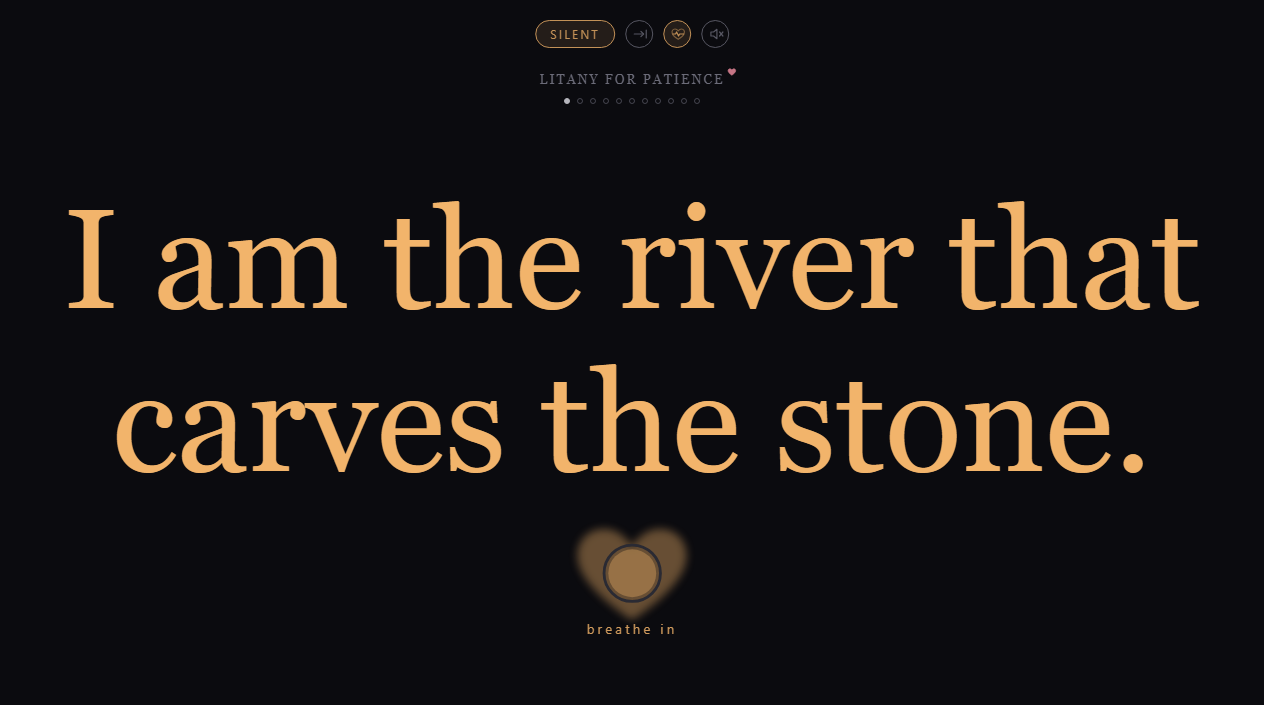
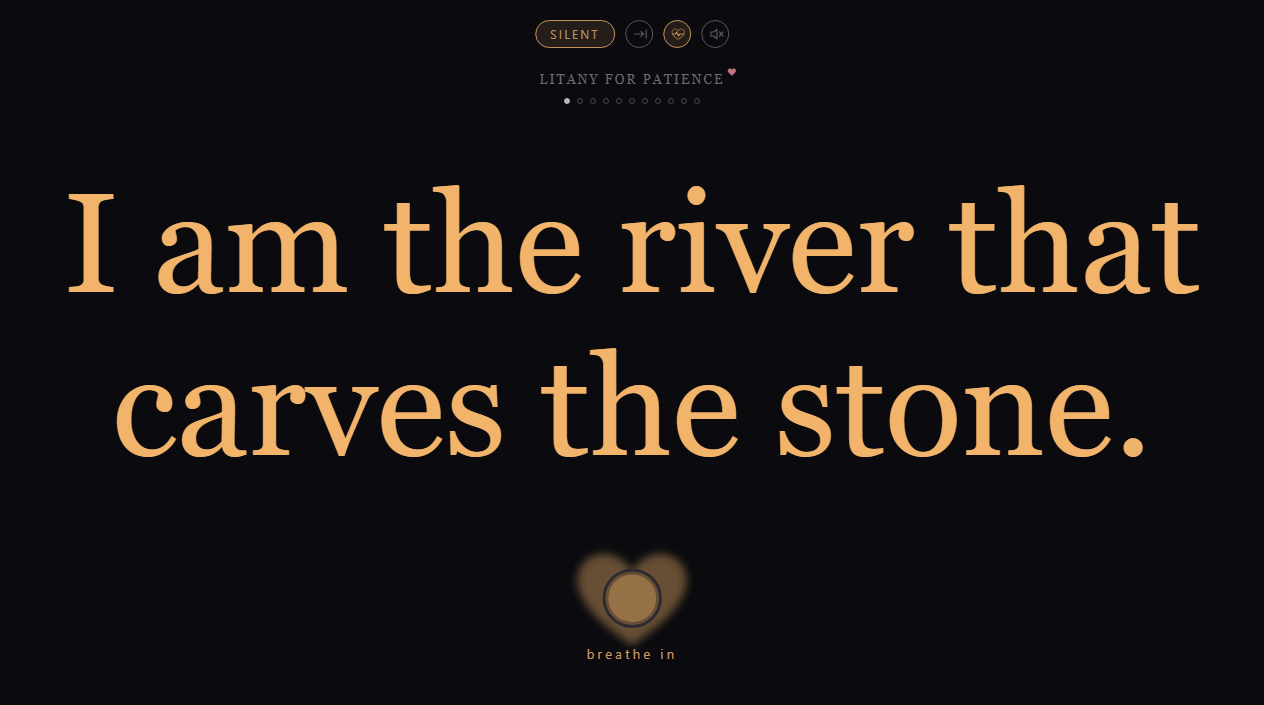
feat: breath ring, heartbeat and cue stay fixed near the bottom of the screen
They moved up and down as the line grew, shrank or wrapped. They now sit in
one place in both views; the line is centred in the space above them.
README screenshots retaken.

diff --git a/public/style.css b/public/style.css
@@ -414,9 +414,25 @@ button {
 #reader.full-view #progress {
   display: none;
 }
-/* Keep the line clear of the top buttons and title (and the dots, in one-line view). */
+/* Keep the line clear of the top buttons and title (and the dots, in one-line view),
+   and of the breath ring and cue fixed near the bottom. */
 #stage {
+  --breath-bottom: calc(6vh + var(--safe-bottom)); /* gap under the cue */
+  --breath-height: calc(10vmin + 1.6vh + 1.4em); /* ring, gap, cue */
   padding-top: calc(80px + var(--safe-top));
+  padding-bottom: calc(var(--breath-bottom) + var(--breath-height) + 3vh);
+}
+/* The breath ring, heartbeat and cue: fixed near the bottom, so they don't move
+   when the line grows, shrinks or wraps. The return link takes their place at the end. */
+#breath-area,
+#end {
+  position: absolute;
+  left: 0;
+  right: 0;
+  bottom: var(--breath-bottom);
+  display: flex;
+  flex-direction: column;
+  align-items: center;
 }
 #reader:not(.full-view) #stage {
   padding-top: calc(110px + var(--safe-top));
@@ -519,7 +535,6 @@ button {
   display: block; /* no gap under it, so the heart lines up with it */
   width: 10vmin;
   height: 10vmin;
-  margin-top: 5vh;
   opacity: 0;
   transition: opacity 0.5s;
   transform: rotate(-90deg);
@@ -568,12 +583,9 @@ button {
   opacity: 0.85;
 }
 
-/* Sits where the breath ring and cue were, about the same height, so the text doesn't jump. */
+/* Sits where the breath ring and cue were, the same height. */
 #end {
-  margin-top: 5vh;
-  min-height: calc(10vmin + 1.6vh + 1.4em);
-  display: flex;
-  align-items: center;
+  min-height: var(--breath-height);
   justify-content: center;
   animation: fade-in 0.8s ease-out;
 }
@@ -795,17 +807,12 @@ button {
   #progress {
     top: calc(84px + var(--safe-top));
   }
-  /* At the end, the return link goes above the line, where the toolbar can't cover
-     it. The ring and cue keep their space, unseen, so the line doesn't jump. */
+  /* At the end, the return link goes above the line, where the toolbar can't cover it. */
   #reader.finished #end {
+    position: static;
     order: -1;
     margin: 0 0 3vh;
     min-height: 0;
-  }
-  #reader.finished #hold.hidden,
-  #reader.finished #cue.hidden {
-    display: block !important;
-    visibility: hidden;
   }
   #index {
     padding-top: calc(5vh + var(--safe-top));

diff --git a/public/index.html b/public/index.html
@@ -81,18 +81,21 @@
     <div id="progress" role="img"></div>
     <div id="stage">
       <div id="line"></div>
-      <div id="breath-mark">
-        <!-- Heartbeat (B): a soft heart behind the breath ring that fades in and out, slowing as the litany goes on. -->
-        <svg id="pulse" class="hidden" viewBox="0 0 24 24" aria-hidden="true">
-          <path d="M12 20s-7.5-4.6-9-9.2C1.9 7.4 4 4.5 7.2 4.5c2 0 3.5 1.1 4.8 2.9 1.3-1.8 2.8-2.9 4.8-2.9 3.2 0 5.3 2.9 4.2 6.3-1.5 4.6-9 9.2-9 9.2z"/>
-        </svg>
-        <svg id="hold" viewBox="0 0 100 100" aria-hidden="true">
-          <circle class="track" cx="50" cy="50" r="40"></circle>
-          <circle class="orb" cx="50" cy="50" r="12"></circle>
-          <circle class="arc" cx="50" cy="50" r="40" pathLength="1"></circle>
-        </svg>
+      <!-- The breath ring, heartbeat and cue stay fixed near the bottom, whatever the text does. -->
+      <div id="breath-area">
+        <div id="breath-mark">
+          <!-- Heartbeat (B): a soft heart behind the breath ring that fades in and out, slowing as the litany goes on. -->
+          <svg id="pulse" class="hidden" viewBox="0 0 24 24" aria-hidden="true">
+            <path d="M12 20s-7.5-4.6-9-9.2C1.9 7.4 4 4.5 7.2 4.5c2 0 3.5 1.1 4.8 2.9 1.3-1.8 2.8-2.9 4.8-2.9 3.2 0 5.3 2.9 4.2 6.3-1.5 4.6-9 9.2-9 9.2z"/>
+          </svg>
+          <svg id="hold" viewBox="0 0 100 100" aria-hidden="true">
+            <circle class="track" cx="50" cy="50" r="40"></circle>
+            <circle class="orb" cx="50" cy="50" r="12"></circle>
+            <circle class="arc" cx="50" cy="50" r="40" pathLength="1"></circle>
+          </svg>
+        </div>
+        <div id="cue"></div>
       </div>
-      <div id="cue"></div>
       <div id="end" class="hidden"><button type="button" id="end-back" class="link">Return to index</button></div>
     </div>
 
